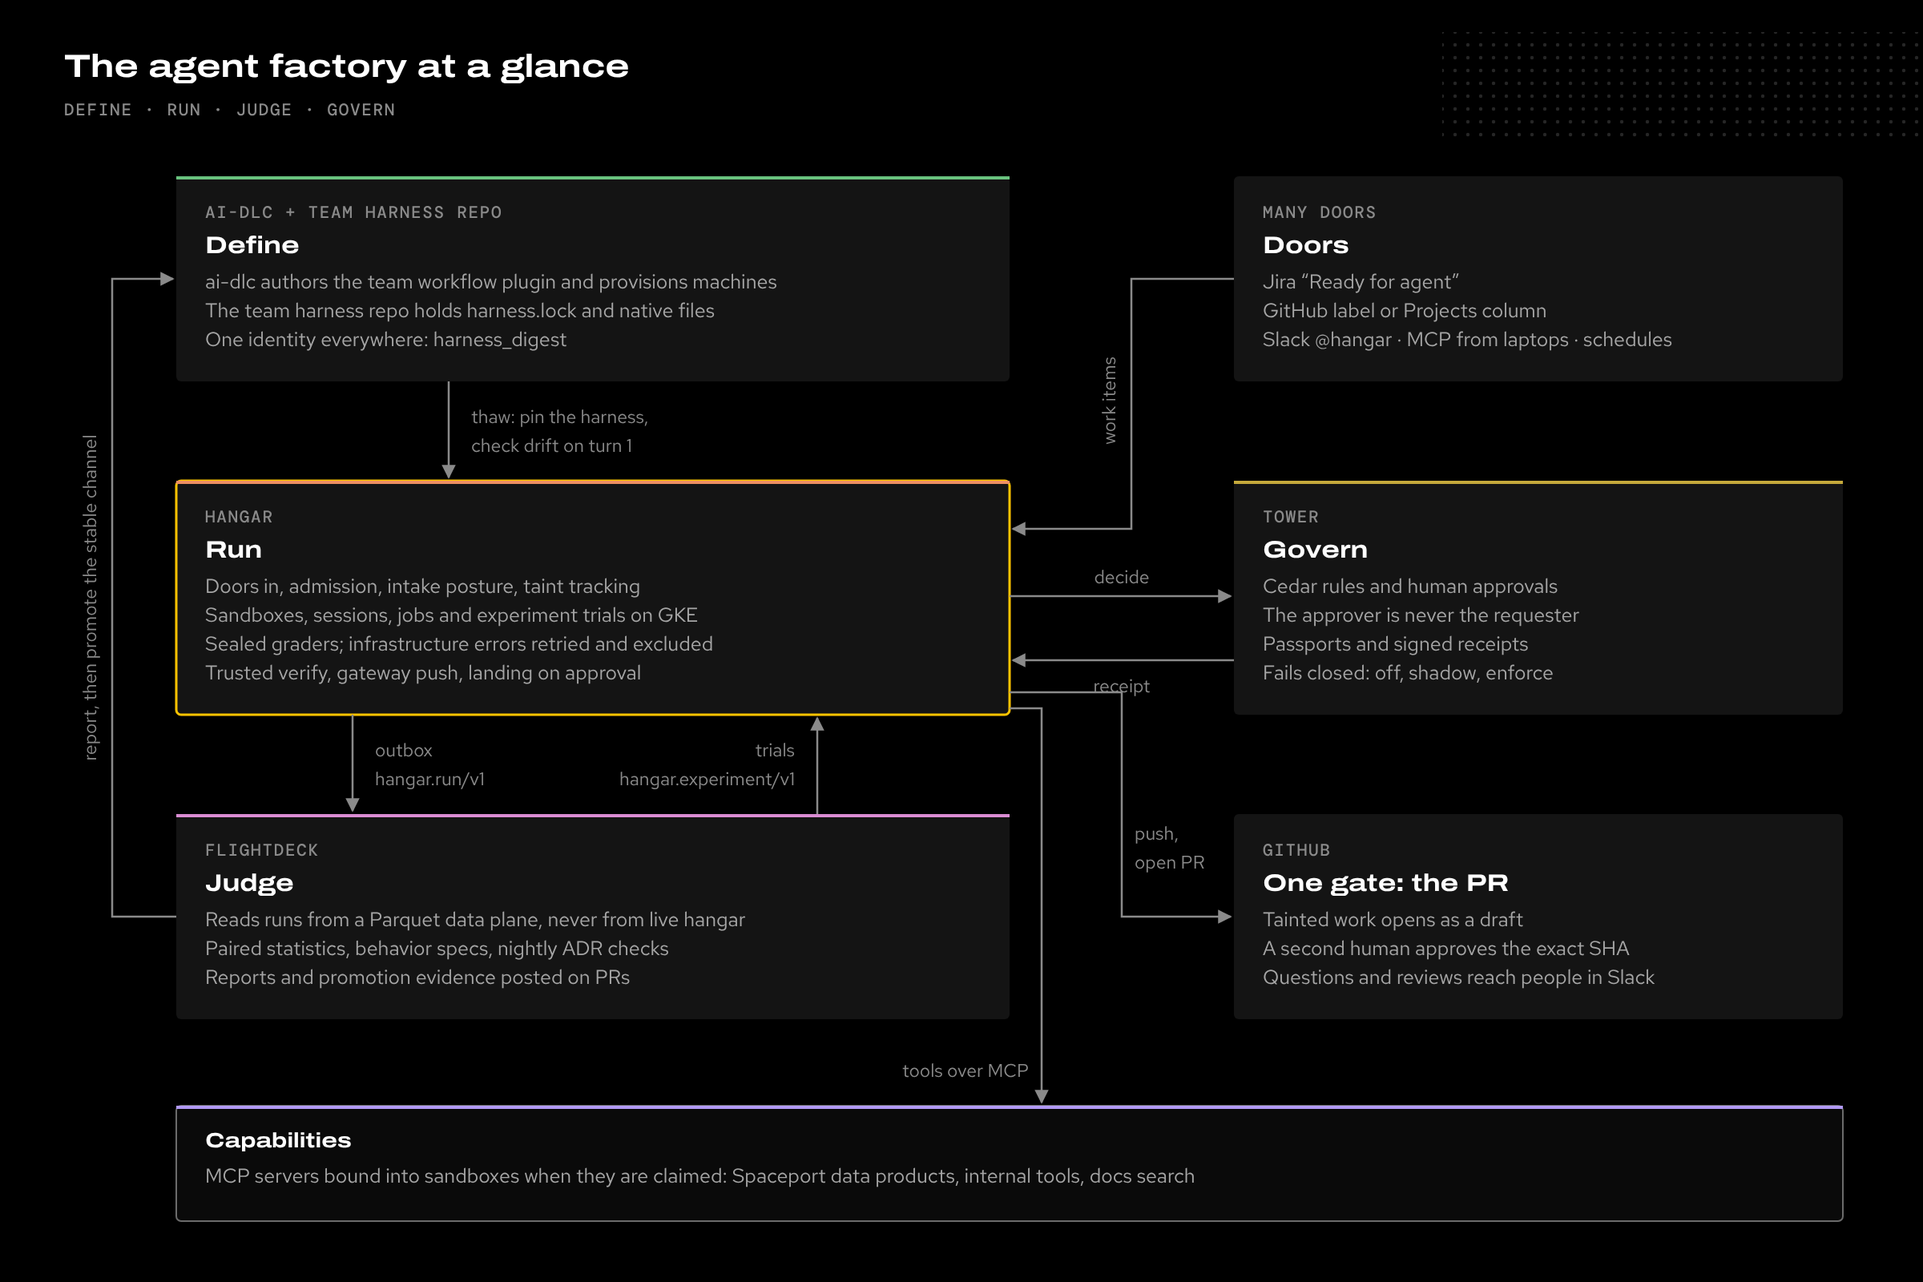
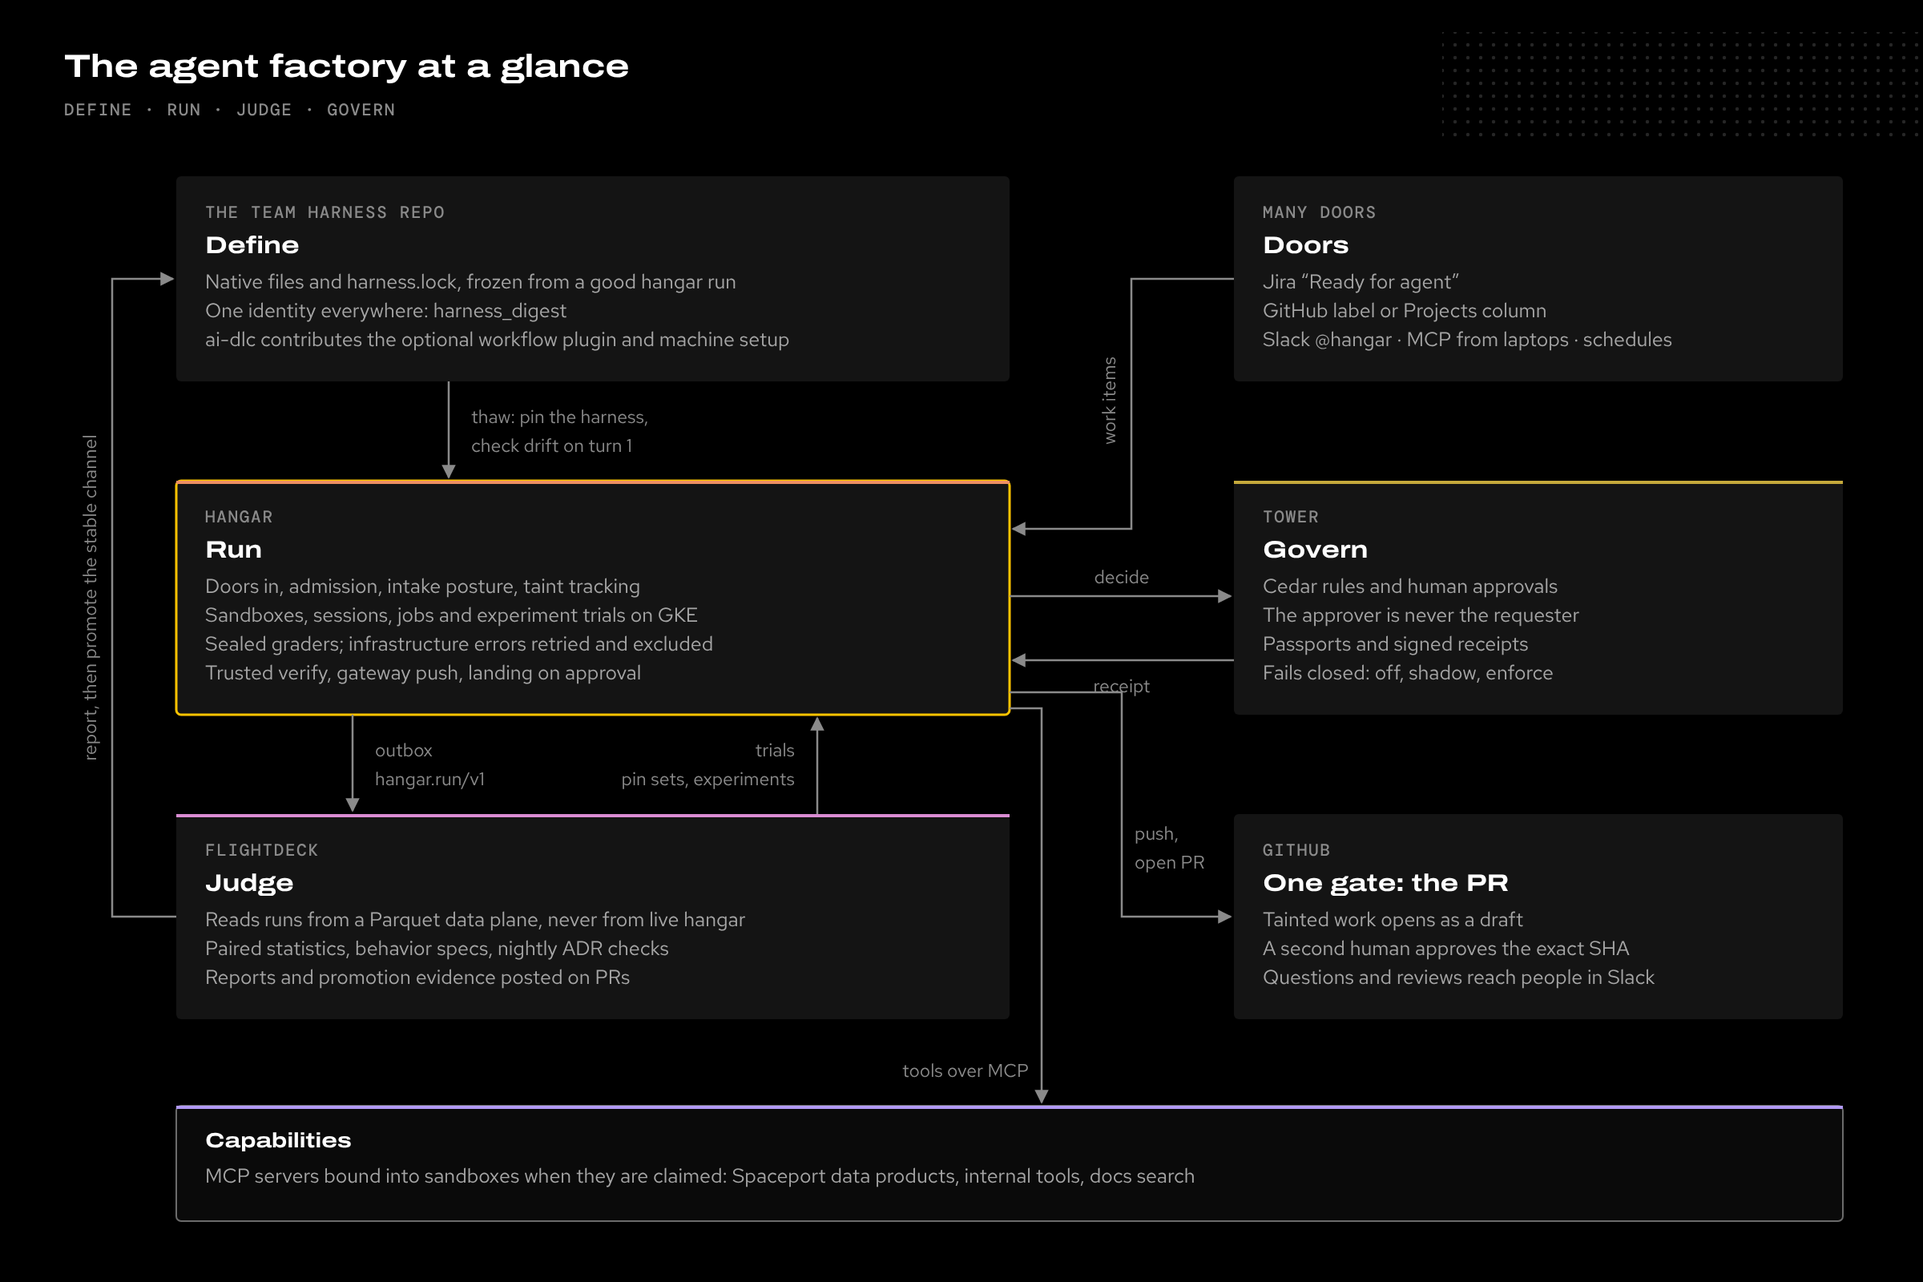
feat(diagrams): a ticket's journey (wide and stacked), current C4 statuses, Define is the harness repo
- journey.svg and journey-stacked.svg draw the seven steps of the new "How it fits"
  page: doors, hangar's intake, sandbox claim and gateway, Tower's decide/receipt
  (dashed: Tower built, hangar wiring open), the PR gate, the outbox, compactor and
  flightdeck, and the loop back through the team harness repo. The stacked variant
  is for phone widths.
- c4-containers: Tower, the run outbox, the data plane and the compactor are on
  main (Tower not deployed yet); trials and Parquet reads are solid; only
  hangar -> Tower "decide" stays dashed.
- planes and slide-planes: Define is the team harness repo; ai-dlc contributes
  the optional workflow plugin. The trials edge names pin sets.
- slide-loop: a change starts in the harness, not in ai-dlc.
- Product key "workspace" renamed "tower".

Claude-Session: https://claude.ai/code/session_01HvitnJ1UBiCErYxq9RC6B8

Changed region(s): [[0.0938, 0.2188, 0.4062, 0.2812], [0.3125, 0.5938, 0.4062, 0.625], [0.125, 0.1562, 0.2188, 0.1875]]

diff --git a/scripts/diagrams.py b/scripts/diagrams.py
@@ -50,9 +50,11 @@ STYLE = """
 PRODUCT = {
     "hangar": "var(--af-product-hangar, #EE8F63)",
     "flightdeck": "var(--af-product-flightdeck, #D98CD2)",
-    "workspace": "var(--af-product-tower, #C5A93B)",
+    "tower": "var(--af-product-tower, #C5A93B)",
     "aidlc": "var(--af-product-aidlc, #69C27E)",
     "spaceport": "var(--af-product-spaceport, #B199F4)",
+    # The team harness repo is not a product: it has no hue of its own.
+    "harness": "var(--af-fg-subtle, #8A8A8A)",
 }
 
 
@@ -60,8 +62,9 @@ def esc(s: str) -> str:
     return s.replace("&", "&amp;").replace("<", "&lt;").replace(">", "&gt;")
 
 
-def svg(w: int, h: int, label: str, body: list[str], dots: tuple[int, int, int, int] | None = None) -> str:
-    pid = label.lower().replace(" ", "-")[:24]
+def svg(w: int, h: int, label: str, body: list[str], dots: tuple[int, int, int, int] | None = None,
+        pid: str | None = None) -> str:
+    pid = pid or label.lower().replace(" ", "-")[:24]
     field = ""
     if dots:
         x, y, fw, fh = dots
@@ -112,10 +115,10 @@ def planes() -> str:
         text(40, 48, "The agent factory at a glance", "title"),
         text(40, 72, "DEFINE  ·  RUN  ·  JUDGE  ·  GOVERN", "lbl"),
         # left column
-        box(L, 110, LW, 128, "Define", ["ai-dlc authors the team workflow plugin and provisions machines",
-                                         "The team harness repo holds harness.lock and native files",
-                                         "One identity everywhere: harness_digest"],
-            eyebrow="AI-DLC  +  TEAM HARNESS REPO", product="aidlc"),
+        box(L, 110, LW, 128, "Define", ["Native files and harness.lock, frozen from a good hangar run",
+                                         "One identity everywhere: harness_digest",
+                                         "ai-dlc contributes the optional workflow plugin and machine setup"],
+            eyebrow="THE TEAM HARNESS REPO"),
         box(L, 300, LW, 146, "Run", ["Doors in, admission, intake posture, taint tracking",
                                       "Sandboxes, sessions, jobs and experiment trials on GKE",
                                       "Sealed graders; infrastructure errors retried and excluded",
@@ -130,7 +133,7 @@ def planes() -> str:
                                         "Slack @hangar · MCP from laptops · schedules"], eyebrow="MANY DOORS"),
         box(R, 300, RW, 146, "Govern", ["Cedar rules and human approvals", "The approver is never the requester",
                                          "Passports and signed receipts", "Fails closed: off, shadow, enforce"],
-            eyebrow="TOWER", product="workspace"),
+            eyebrow="TOWER", product="tower"),
         box(R, 508, RW, 128, "One gate: the PR", ["Tainted work opens as a draft",
                                                   "A second human approves the exact SHA",
                                                   "Questions and reviews reach people in Slack"],
@@ -143,7 +146,7 @@ def planes() -> str:
         text(L + 184, 264, "thaw: pin the harness,"), text(L + 184, 282, "check drift on turn 1"),
         edge(f"M{L + 110} 446V506"), text(L + 124, 472, "outbox"), text(L + 124, 490, "hangar.run/v1"),
         edge(f"M{L + 400} 508V448"), text(L + 386, 472, "trials", anchor="end"),
-        text(L + 386, 490, "hangar.experiment/v1", anchor="end"),
+        text(L + 386, 490, "pin sets, experiments", anchor="end"),
         edge(f"M{L} 572H{L - 40}V174H{L - 2}"), text(L - 50, 373, "report, then promote the stable channel", rotate=-90, anchor="middle"),
         edge(f"M{R} 174H{R - 64}V330H{L + LW + 2}"), text(R - 74, 250, "work items", anchor="middle", rotate=-90),
         edge(f"M{L + LW} 372H{R - 2}"), text((L + LW + R) // 2, 364, "decide", anchor="middle"),
@@ -207,7 +210,7 @@ def containers() -> str:
     E = dict(kind="box-ext", name_cls="name-s", eyebrow="EXTERNAL")
     b = [
         text(40, 48, "Containers and where they run", "title"),
-        text(40, 72, "C4 LEVEL 2  ·  SOLID: ON MAIN  ·  DASHED: IN REVIEW OR PLANNED", "lbl"),
+        text(40, 72, "C4 LEVEL 2  ·  SOLID: ON MAIN  ·  DASHED: PLANNED OR NOT YET WIRED", "lbl"),
         # engineer machine
         '<rect class="bound" x="30" y="100" width="240" height="600" rx="4"/>',
         text(46, 124, "ENGINEER MACHINE AND CI", "lbl"),
@@ -225,18 +228,18 @@ def containers() -> str:
                                                           "Writes the run outbox"],
             eyebrow="PYTHON · ALWAYS ON", kind="box-hub", product="hangar", name_cls="name-s"),
         box(650, 180, 208, 124, "Tower", ["Decision point, approvals,", "receipts, passports"],
-            eyebrow="PLANNED · SPEC 0015", kind="box-plan", product="workspace", name_cls="name-s"),
+            eyebrow="ON MAIN · NOT DEPLOYED", product="tower", name_cls="name-s"),
         box(650, 340, 208, 104, "Gateway and egress", ["Git gateway :8788", "Egress proxy :3128"],
             eyebrow="IN THE CONTROL PLANE POD", product="hangar", name_cls="name-s"),
         box(362, 500, 496, 112, "Agent sandboxes", ["Claude Code, Codex, pi, Antigravity · gVisor on Spot nodes, 0 to N",
                                                     "Pools off 01:00–10:00 ET · optional Kata heavy tier for Docker"],
             eyebrow="AGENT SANDBOX ADD-ON", product="hangar", name_cls="name-s"),
         box(346, 670, 168, 108, "Checkpoints", ["Session state that", "outlives the disk"], eyebrow="GCS", name_cls="name-s"),
-        box(530, 670, 168, 108, "Run outbox", ["hangar.run/v1,", "written once"], eyebrow="GCS · IN REVIEW", kind="box-plan", name_cls="name-s"),
-        box(714, 670, 160, 108, "Data plane", ["Parquet tables,", "one folder a day"], eyebrow="GCS · PLANNED", kind="box-plan", name_cls="name-s"),
+        box(530, 670, 168, 108, "Run outbox", ["hangar.run/v1,", "written once"], eyebrow="GCS", name_cls="name-s"),
+        box(714, 670, 160, 108, "Data plane", ["Parquet tables,", "one folder a day"], eyebrow="GCS", name_cls="name-s"),
         box(346, 806, 168, 116, "Images", ["Environment images", "and harness packs"], eyebrow="ARTIFACT REGISTRY", name_cls="name-s"),
         box(530, 806, 344, 116, "Compactor", ["Flattens new runs into Parquet each", "night, while the sandbox pools are off"],
-            eyebrow="CLOUD RUN JOB · PLANNED", kind="box-plan", product="flightdeck", name_cls="name-s"),
+            eyebrow="CLOUD RUN JOB · NIGHTLY", product="flightdeck", name_cls="name-s"),
         # externals
         box(940, 150, 230, 104, "Jira and Slack", ["Doors in; questions and", "approvals out"], **E),
         box(940, 340, 230, 104, "GitHub", ["Team repos, PRs, the App,", "the team harness repo"], **E),
@@ -244,16 +247,16 @@ def containers() -> str:
         box(940, 600, 230, 104, "MCP servers", ["Spaceport, internal tools,", "bound at claim time"], kind="box-ext", name_cls="name-s", eyebrow="EXTERNAL", product="spaceport"),
         # engineer -> control plane
         edge("M254 222H360"), text(262, 214, "MCP / REST"),
-        edge("M254 470H300V300H360", plan=True), text(306, 292, "submit"),
-        edge("M254 510H316V962H882V724H876", plan=True), text(600, 980, "flightdeck reads Parquet", anchor="middle"),
+        edge("M254 470H300V300H360"), text(306, 292, "trials"),
+        edge("M254 510H316V962H882V724H876"), text(600, 980, "flightdeck reads Parquet", anchor="middle"),
         # inside the cluster
         edge("M582 240H648", plan=True), text(616, 232, "decide", anchor="middle"),
         edge("M472 444V498"), text(480, 476, "creates"),
         edge("M754 500V446"), text(762, 478, "git, egress"),
         # to storage
-        edge("M362 420H354V652H614V668", plan=True),
+        edge("M362 420H354V652H614V668"),
         edge("M354 652H430V668"),
-        edge("M614 778V804", plan=True), edge("M794 806V780", plan=True),
+        edge("M614 778V804"), edge("M794 806V780"),
         # to externals
         edge("M858 380H938"), text(866, 372, "push"),
         edge("M858 420H916V522H938"),
@@ -265,9 +268,128 @@ def containers() -> str:
     return svg(1200, 996, "Containers and where they run", b)
 
 
+# ---------------------------------------------------------------------------------------------
+# 4. A ticket's journey: the seven steps on docs/architecture/how-it-fits.md, wide and stacked
+
+JOURNEY_STYLE = """
+<style>
+  .af-d .step { fill: var(--af-canvas, #000); stroke: var(--af-fg-subtle, #8A8A8A); stroke-width: 1; }
+  .af-d .stepn { font: 500 11px "DM Mono", ui-monospace, Menlo, monospace; fill: var(--af-fg, #fff); }
+  .af-d .hub-lbl { font: 500 10.5px "DM Mono", ui-monospace, Menlo, monospace; letter-spacing: .08em; fill: var(--af-fg-subtle, #8A8A8A); }
+</style>
+"""
+
+
+def step(x, y, n) -> str:
+    """A numbered marker that ties a part of the drawing to step n of the text."""
+    return (f'<circle class="step" cx="{x}" cy="{y}" r="9"/>'
+            f'<text class="stepn" x="{x}" y="{y + 4}" text-anchor="middle">{n}</text>')
+
+
+def journey() -> str:
+    hub_x, hub_w, row, row_h = 250, 620, 250, 170
+    inner_y, inner_w, inner_h = 280, 180, 112
+    ix = (266, 468, 670)                       # intake, sandbox, verify inside the hangar box
+    cx = [x + inner_w // 2 for x in ix]
+    low_y, low_w, low_h = 500, 190, 120
+    lx = (250, 465, 680)                       # flightdeck, compactor, outbox (data flows right to left)
+    I = dict(kind="box-ext", name_cls="name-s")
+    b = [JOURNEY_STYLE,
+         text(40, 48, "A ticket's journey", "title"),
+         text(40, 72, "SEVEN STEPS  ·  SOLID: ON MAIN  ·  DASHED: TOWER BUILT, HANGAR WIRING OPEN", "lbl"),
+         # Tower above hangar
+         box(hub_x, 96, hub_w, 104, "Decision point", ["Answers allow, deny or wait, and signs a receipt",
+                                                       "A wait goes to an approver who is not the requester"],
+             eyebrow="TOWER · GOVERN", product="tower", name_cls="name-s"),
+         # main row: doors, hangar, the gate
+         box(40, row, 170, row_h, "Doors", ["Jira, GitHub, Slack,", "MCP, schedules"], eyebrow="MANY DOORS",
+             name_cls="name-s"),
+         f'<rect class="box-hub" x="{hub_x}" y="{row}" width="{hub_w}" height="{row_h}" rx="3"/>',
+         f'<rect x="{hub_x}" y="{row}" width="{hub_w}" height="2" fill="{PRODUCT["hangar"]}"/>',
+         text(hub_x + 16, row + row_h - 12, "HANGAR · RUN", "hub-lbl"),
+         box(ix[0], inner_y, inner_w, inner_h, "Admit", ["Signed webhook; tainted", "Budget and review cap"],
+             eyebrow="INTAKE", **I),
+         box(ix[1], inner_y, inner_w, inner_h, "Claim", ["team-default@stable", "harness_digest, trace"],
+             eyebrow="SANDBOX", **I),
+         box(ix[2], inner_y, inner_w, inner_h, "Deliver", ["The repo's own checks", "One commit, a draft PR"],
+             eyebrow="VERIFY · GATEWAY", **I),
+         box(910, row, 250, row_h, "One gate: the PR", ["Review packet, Harness-Digest", "A second human approves",
+                                                         "the exact commit"], eyebrow="GITHUB", name_cls="name-s"),
+         # bottom row: outbox -> compactor -> flightdeck -> the team harness repo
+         box(40, low_y, 170, low_h, "Harness repo", ["harness.lock", "channels.yaml", "promotion by PR"],
+             eyebrow="DEFINE", name_cls="name-s"),
+         box(lx[0], low_y, low_w, low_h, "Judge", ["Parquet and DuckDB", "stable vs candidate", "on pinned trials"],
+             eyebrow="FLIGHTDECK · JUDGE", product="flightdeck", name_cls="name-s"),
+         box(lx[1], low_y, low_w, low_h, "Compactor", ["Outbox to Parquet", "flightdeck.parquet/v1"],
+             eyebrow="CLOUD RUN · NIGHTLY", product="flightdeck", name_cls="name-s"),
+         box(lx[2], low_y, low_w, low_h, "Run outbox", ["Each run written once", "run.json last"], eyebrow="GCS",
+             name_cls="name-s"),
+         # 1, 2, 3, 5: along the top row
+         edge(f"M210 336H{ix[0] - 2}"), step(237, 320, 1),
+         edge(f"M{ix[0] + inner_w} 336H{ix[1] - 2}"), edge(f"M{ix[1] + inner_w} 336H{ix[2] - 2}"),
+         step(ix[0] + inner_w - 16, inner_y + 18, 2), step(ix[1] + inner_w - 16, inner_y + 18, 3),
+         edge(f"M{ix[2] + inner_w} 336H908"), step(880, 320, 5),
+         # 4 (and 2, 5): decide down, receipt up, at each enforcement point
+         *[edge(f"M{c - 10} 200V{inner_y - 2}", plan=True) + edge(f"M{c + 10} {inner_y}V202", plan=True) for c in cx],
+         text(cx[0] - 16, 236, "decide", anchor="end"), text(cx[0] + 16, 236, "receipt"),
+         step(cx[1] + 32, 236, 4),
+         # 6: every finished run goes out once, and is compacted overnight
+         edge(f"M{cx[2]} {inner_y + inner_h}V{low_y - 2}"), step(cx[2] + 18, 470, 6),
+         text(cx[2] - 10, 470, "every run", anchor="end"),
+         edge(f"M{lx[2]} 560H{lx[1] + low_w + 2}"), edge(f"M{lx[1]} 560H{lx[0] + low_w + 2}"),
+         # 7: the verdict on the harness PR, then stable moves and the next claim uses it
+         edge(f"M{lx[0]} 560H212"), step(231, 544, 7),
+         edge(f"M190 {low_y}V460H{cx[1]}V{inner_y + inner_h + 2}"),
+         text(222, 452, "the next claim uses the new stable"),
+         # legend
+         text(910, 530, "NUMBERS MATCH THE STEPS", "lbl"), text(910, 548, "IN THE TEXT", "lbl"),
+         text(910, 578, "Tower's side is built; hangar's"), text(910, 596, "wiring is hangar#172 and #173"),
+         ]
+    return svg(1200, 660, "A ticket's journey", b, dots=(900, 20, 300, 70), pid="journey")
+
+
+def journey_stacked() -> str:
+    """The same seven steps, one above the other, for phone-width pages."""
+    x, w, h, gap, y0 = 20, 350, 104, 34, 100
+    steps_ = [
+        ("DOORS", "Ready for agent", ["A ticket moves; a signed webhook", "reaches hangar"], None, "box"),
+        ("HANGAR · INTAKE", "Admit", ["Tainted: ticket text is untrusted", "Within budget and reviewer capacity"],
+         "hangar", "box"),
+        ("HANGAR · SANDBOX", "Claim team-default@stable", ["The manifest records harness_digest",
+                                                             "Every step streams into a trace"], "hangar", "box"),
+        ("TOWER · GOVERN", "Ask before a risky step", ["Allow, deny or wait, with a receipt",
+                                                       "A wait goes to someone else"], "tower", "box-plan"),
+        ("HANGAR · GATEWAY", "Verify and open the PR", ["Repo checks, one commit, a draft PR",
+                                                        "A second human approves the commit"], "hangar", "box"),
+        ("OUTBOX · COMPACTOR", "Captured once", ["The run lands in the GCS outbox",
+                                                 "and in Parquet overnight"], None, "box"),
+        ("FLIGHTDECK · HARNESS REPO", "Judge, then promote", ["Stable vs candidate on pinned trials",
+                                                              "A different person moves stable"], "flightdeck", "box"),
+    ]
+    b = [JOURNEY_STYLE, text(20, 44, "A ticket's journey", "title"),
+         text(20, 68, "SOLID: ON MAIN  ·  DASHED: HANGAR WIRING OPEN", "lbl")]
+    ys = []
+    for i, (eyebrow, name, lines, product, kind) in enumerate(steps_):
+        y = y0 + i * (h + gap)
+        ys.append(y)
+        b.append(box(x, y, w, h, name, lines, eyebrow=eyebrow, kind=kind, product=product, name_cls="name-s"))
+        b.append(step(x + w - 22, y + 22, i + 1))
+        if i:
+            b.append(edge(f"M{x + 40} {y - gap}V{y - 2}", plan=kind == "box-plan" or steps_[i - 1][4] == "box-plan"))
+    # the loop: the promoted stable is what the next claim runs
+    y3, y7 = ys[2] + h // 2, ys[6] + h // 2
+    b.append(edge(f"M{x + w} {y7}H{x + w + 22}V{y3}H{x + w + 2}"))
+    b.append(text(x + w + 36, (y3 + y7) // 2, "the next claim uses the new stable", anchor="middle", rotate=-90))
+    end = ys[-1] + h
+    b.append(text(20, end + 34, "Tower's side is built; hangar's wiring is", "elabel"))
+    b.append(text(20, end + 52, "hangar#172 and #173.", "elabel"))
+    return svg(420, end + 72, "A ticket's journey, stacked", b, pid="journey-stacked")
+
+
 def main() -> None:
     OUT.mkdir(parents=True, exist_ok=True)
-    for name, fn in (("planes", planes), ("c4-context", context), ("c4-containers", containers)):
+    for name, fn in (("planes", planes), ("c4-context", context), ("c4-containers", containers),
+                     ("journey", journey), ("journey-stacked", journey_stacked)):
         (OUT / f"{name}.svg").write_text(with_fallbacks(fn()))
         print("wrote", OUT / f"{name}.svg")
 
@@ -300,9 +422,9 @@ def sbox(x, y, w, h, eyebrow, name, lines=(), kind="box", product=None):
 def slide_planes() -> str:
     b = [SLIDE_STYLE,
          sbox(40, 20, 330, 150, "DOORS", "Many doors", ["Jira, GitHub, Slack, MCP,", "schedules"]),
-         sbox(40, 230, 330, 150, "AI-DLC + HARNESS REPO", "Define", ["harness.lock, one digest,", "the workflow plugin"], product="aidlc"),
+         sbox(40, 230, 330, 150, "TEAM HARNESS REPO", "Define", ["Native files, harness.lock,", "one digest"]),
          sbox(470, 120, 340, 260, "HANGAR", "Run", ["Sandboxes, sessions, jobs", "and trials on GKE", "Verify, push through the", "gateway, land on approval"], kind="box-hub", product="hangar"),
-         sbox(910, 20, 330, 150, "TOWER", "Govern", ["Rules, human approvals,", "signed receipts"], product="workspace"),
+         sbox(910, 20, 330, 150, "TOWER", "Govern", ["Rules, human approvals,", "signed receipts"], product="tower"),
          sbox(910, 230, 330, 150, "GITHUB", "One gate: the PR", ["A second human approves", "the exact commit"]),
          sbox(470, 440, 340, 150, "FLIGHTDECK", "Judge", ["Paired statistics and", "behavior specs on every run"], product="flightdeck"),
          edge("M370 95H420V180H468"), text(380, 85, "work"),
@@ -320,7 +442,7 @@ def slide_planes() -> str:
 def slide_loop() -> str:
     cx, cy, r = 640, 300, 210
     import math
-    steps = [("1", "Change", "a skill or hook in ai-dlc", "aidlc"),
+    steps = [("1", "Change", "a skill, hook or plugin in the harness", "harness"),
              ("2", "Freeze", "a good run into harness.lock", "hangar"),
              ("3", "Experiment", "stable vs candidate, paired", "flightdeck"),
              ("4", "Report", "verdict with intervals on the PR", "flightdeck"),
